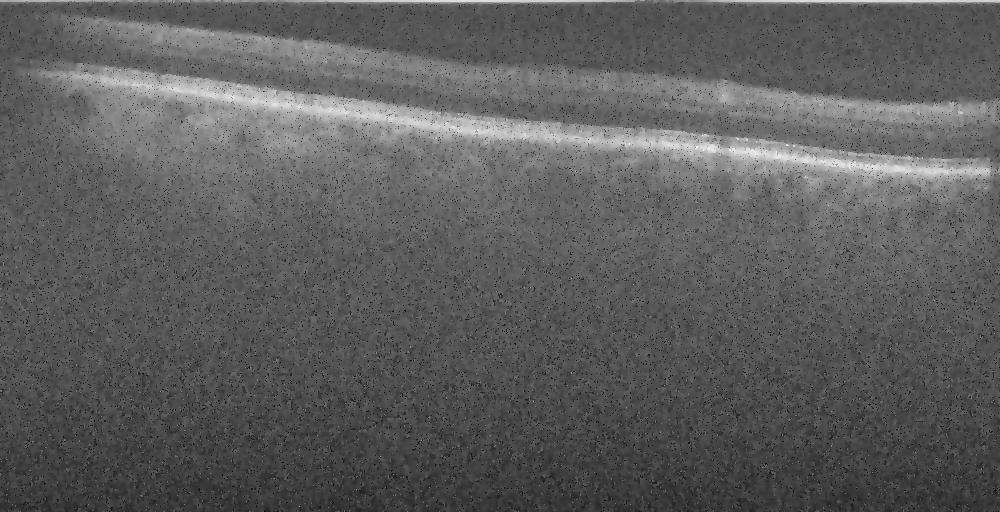
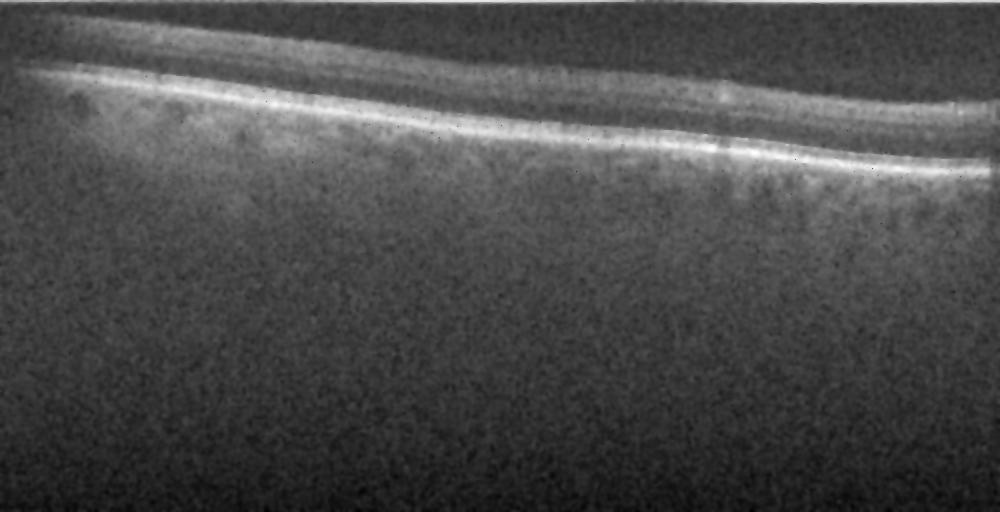
New function added

diff --git a/Synthetic OCT/Synthetic OCT/fastaniso.py b/Synthetic OCT/Synthetic OCT/fastaniso.py
@@ -1,0 +1,266 @@
+import numpy as np
+import warnings
+
+def anisodiff(img,niter=1,kappa=50,gamma=0.1,step=(1.,1.),option=1,ploton=False):
+	"""
+	Anisotropic diffusion.
+
+	Usage:
+	imgout = anisodiff(im, niter, kappa, gamma, option)
+
+	Arguments:
+	        img    - input image
+	        niter  - number of iterations
+	        kappa  - conduction coefficient 20-100 ?
+	        gamma  - max value of .25 for stability
+	        step   - tuple, the distance between adjacent pixels in (y,x)
+	        option - 1 Perona Malik diffusion equation No 1
+	                 2 Perona Malik diffusion equation No 2
+	        ploton - if True, the image will be plotted on every iteration
+
+	Returns:
+	        imgout   - diffused image.
+
+	kappa controls conduction as a function of gradient.  If kappa is low
+	small intensity gradients are able to block conduction and hence diffusion
+	across step edges.  A large value reduces the influence of intensity
+	gradients on conduction.
+
+	gamma controls speed of diffusion (you usually want it at a maximum of
+	0.25)
+
+	step is used to scale the gradients in case the spacing between adjacent
+	pixels differs in the x and y axes
+
+	Diffusion equation 1 favours high contrast edges over low contrast ones.
+	Diffusion equation 2 favours wide regions over smaller ones.
+
+	Reference: 
+	P. Perona and J. Malik. 
+	Scale-space and edge detection using ansotropic diffusion.
+	IEEE Transactions on Pattern Analysis and Machine Intelligence, 
+	12(7):629-639, July 1990.
+
+	Original MATLAB code by Peter Kovesi  
+	School of Computer Science & Software Engineering
+	The University of Western Australia
+	pk @ csse uwa edu au
+	<http://www.csse.uwa.edu.au>
+
+	Translated to Python and optimised by Alistair Muldal
+	Department of Pharmacology
+	University of Oxford
+	<alistair.muldal@pharm.ox.ac.uk>
+
+	June 2000  original version.       
+	March 2002 corrected diffusion eqn No 2.
+	July 2012 translated to Python
+	"""
+
+	# ...you could always diffuse each color channel independently if you
+	# really want
+	if img.ndim == 3:
+		warnings.warn("Only grayscale images allowed, converting to 2D matrix")
+		img = img.mean(2)
+
+	# initialize output array
+	img = img.astype('float32')
+	imgout = img.copy()
+
+	# initialize some internal variables
+	deltaS = np.zeros_like(imgout)
+	deltaE = deltaS.copy()
+	NS = deltaS.copy()
+	EW = deltaS.copy()
+	gS = np.ones_like(imgout)
+	gE = gS.copy()
+
+	# create the plot figure, if requested
+	if ploton:
+		import pylab as pl
+		from time import sleep
+
+		fig = pl.figure(figsize=(20,5.5),num="Anisotropic diffusion")
+		ax1,ax2 = fig.add_subplot(1,2,1),fig.add_subplot(1,2,2)
+
+		ax1.imshow(img,interpolation='nearest')
+		ih = ax2.imshow(imgout,interpolation='nearest',animated=True)
+		ax1.set_title("Original image")
+		ax2.set_title("Iteration 0")
+
+		fig.canvas.draw()
+
+	for ii in xrange(niter):
+
+		# calculate the diffs
+		deltaS[:-1,: ] = np.diff(imgout,axis=0)
+		deltaE[: ,:-1] = np.diff(imgout,axis=1)
+
+		# conduction gradients (only need to compute one per dim!)
+		if option == 1:
+			gS = np.exp(-(deltaS/kappa)**2.)/step[0]
+			gE = np.exp(-(deltaE/kappa)**2.)/step[1]
+		elif option == 2:
+			gS = 1./(1.+(deltaS/kappa)**2.)/step[0]
+			gE = 1./(1.+(deltaE/kappa)**2.)/step[1]
+
+		# update matrices
+		E = gE*deltaE
+		S = gS*deltaS
+
+		# subtract a copy that has been shifted 'North/West' by one
+		# pixel. don't as questions. just do it. trust me.
+		NS[:] = S
+		EW[:] = E
+		NS[1:,:] -= S[:-1,:]
+		EW[:,1:] -= E[:,:-1]
+
+		# update the image
+		imgout += gamma*(NS+EW)
+
+		if ploton:
+			iterstring = "Iteration %i" %(ii+1)
+			ih.set_data(imgout)
+			ax2.set_title(iterstring)
+			fig.canvas.draw()
+			# sleep(0.01)
+
+	return imgout
+
+def anisodiff3(stack,niter=1,kappa=50,gamma=0.1,step=(1.,1.,1.),option=1,ploton=False):
+	"""
+	3D Anisotropic diffusion.
+
+	Usage:
+	stackout = anisodiff(stack, niter, kappa, gamma, option)
+
+	Arguments:
+	        stack  - input stack
+	        niter  - number of iterations
+	        kappa  - conduction coefficient 20-100 ?
+	        gamma  - max value of .25 for stability
+	        step   - tuple, the distance between adjacent pixels in (z,y,x)
+	        option - 1 Perona Malik diffusion equation No 1
+	                 2 Perona Malik diffusion equation No 2
+	        ploton - if True, the middle z-plane will be plotted on every 
+	        	 iteration
+
+	Returns:
+	        stackout   - diffused stack.
+
+	kappa controls conduction as a function of gradient.  If kappa is low
+	small intensity gradients are able to block conduction and hence diffusion
+	across step edges.  A large value reduces the influence of intensity
+	gradients on conduction.
+
+	gamma controls speed of diffusion (you usually want it at a maximum of
+	0.25)
+
+	step is used to scale the gradients in case the spacing between adjacent
+	pixels differs in the x,y and/or z axes
+
+	Diffusion equation 1 favours high contrast edges over low contrast ones.
+	Diffusion equation 2 favours wide regions over smaller ones.
+
+	Reference: 
+	P. Perona and J. Malik. 
+	Scale-space and edge detection using ansotropic diffusion.
+	IEEE Transactions on Pattern Analysis and Machine Intelligence, 
+	12(7):629-639, July 1990.
+
+	Original MATLAB code by Peter Kovesi  
+	School of Computer Science & Software Engineering
+	The University of Western Australia
+	pk @ csse uwa edu au
+	<http://www.csse.uwa.edu.au>
+
+	Translated to Python and optimised by Alistair Muldal
+	Department of Pharmacology
+	University of Oxford
+	<alistair.muldal@pharm.ox.ac.uk>
+
+	June 2000  original version.       
+	March 2002 corrected diffusion eqn No 2.
+	July 2012 translated to Python
+	"""
+
+	# ...you could always diffuse each color channel independently if you
+	# really want
+	if stack.ndim == 4:
+		warnings.warn("Only grayscale stacks allowed, converting to 3D matrix")
+		stack = stack.mean(3)
+
+	# initialize output array
+	stack = stack.astype('float32')
+	stackout = stack.copy()
+
+	# initialize some internal variables
+	deltaS = np.zeros_like(stackout)
+	deltaE = deltaS.copy()
+	deltaD = deltaS.copy()
+	NS = deltaS.copy()
+	EW = deltaS.copy()
+	UD = deltaS.copy()
+	gS = np.ones_like(stackout)
+	gE = gS.copy()
+	gD = gS.copy()
+
+	# create the plot figure, if requested
+	if ploton:
+		import pylab as pl
+		from time import sleep
+
+		showplane = stack.shape[0]//2
+
+		fig = pl.figure(figsize=(20,5.5),num="Anisotropic diffusion")
+		ax1,ax2 = fig.add_subplot(1,2,1),fig.add_subplot(1,2,2)
+
+		ax1.imshow(stack[showplane,...].squeeze(),interpolation='nearest')
+		ih = ax2.imshow(stackout[showplane,...].squeeze(),interpolation='nearest',animated=True)
+		ax1.set_title("Original stack (Z = %i)" %showplane)
+		ax2.set_title("Iteration 0")
+
+		fig.canvas.draw()
+
+	for ii in xrange(niter):
+
+		# calculate the diffs
+		deltaD[:-1,: ,:  ] = np.diff(stackout,axis=0)
+		deltaS[:  ,:-1,: ] = np.diff(stackout,axis=1)
+		deltaE[:  ,: ,:-1] = np.diff(stackout,axis=2)
+
+		# conduction gradients (only need to compute one per dim!)
+		if option == 1:
+			gD = np.exp(-(deltaD/kappa)**2.)/step[0]
+			gS = np.exp(-(deltaS/kappa)**2.)/step[1]
+			gE = np.exp(-(deltaE/kappa)**2.)/step[2]
+		elif option == 2:
+			gD = 1./(1.+(deltaD/kappa)**2.)/step[0]
+			gS = 1./(1.+(deltaS/kappa)**2.)/step[1]
+			gE = 1./(1.+(deltaE/kappa)**2.)/step[2]
+
+		# update matrices
+		D = gD*deltaD
+		E = gE*deltaE
+		S = gS*deltaS
+
+		# subtract a copy that has been shifted 'Up/North/West' by one
+		# pixel. don't as questions. just do it. trust me.
+		UD[:] = D
+		NS[:] = S
+		EW[:] = E
+		UD[1:,: ,: ] -= D[:-1,:  ,:  ]
+		NS[: ,1:,: ] -= S[:  ,:-1,:  ]
+		EW[: ,: ,1:] -= E[:  ,:  ,:-1]
+
+		# update the image
+		stackout += gamma*(UD+NS+EW)
+
+		if ploton:
+			iterstring = "Iteration %i" %(ii+1)
+			ih.set_data(stackout[showplane,...].squeeze())
+			ax2.set_title(iterstring)
+			fig.canvas.draw()
+			# sleep(0.01)
+
+	return stackout

diff --git a/Synthetic OCT/Synthetic OCT/Synthetic_OCT.py b/Synthetic OCT/Synthetic OCT/Synthetic_OCT.py
@@ -11,14 +11,16 @@ from scipy.ndimage.filters import gaussian_filter as gaussian
 
 matfile = sio.loadmat('data/Farsiu_Ophthalmology_2013_Control_Subject_1001.mat', squeeze_me=True, struct_as_record=False)
 img = np.array(matfile['images'])
-plt.figure()
-plt.imshow(img[:,:,2], 'gray')
-plt.show()
+#plt.figure()
+#plt.imshow(img[:,:,2], 'gray')
+#plt.show()
 
 #Convert rgb to grayscale
 def rgb2gray(rgb):
 	return np.dot(rgb[...,:3], [0.299, 0.587, 0.114])
 img = rgb2gray(img);
+
+sv.imsave('normal.jpg', img)
 
 def forwardDifferenceGradient(img):  
 	diffY = np.zeros_like(img)
@@ -42,12 +44,12 @@ def tanhFormula(gradientY, gradientX, k):
 	return YVal, XVal
 
 img = img.astype("float32")
-gauss = gaussian(img, 11)
+#gauss = gaussian(img, 11)
 shiftedY = np.zeros_like(img)
 shiftedX = np.zeros_like(img)
 for i in range(10):
 	dY, dX = forwardDifferenceGradient(img)
-	cY, cX = sigmoidFormula(dY, dX, 20)
+	cY, cX = tanhFormula(dY, dX, 20)
 	shiftedY[:] = cY
 	shiftedX[:] = cX
 	shiftedY[1:,:] -= cY[:-1,:]
@@ -55,4 +57,4 @@ for i in range(10):
 	img += 0.25*(shiftedY+shiftedX)
 
 sv.imsave('anisotropic.jpg', img)
-sv.imsave('gaussian.jpg', gauss)
+#sv.imsave('gaussian.jpg', gauss)
